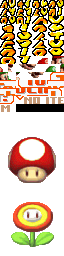
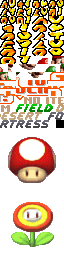
Add level names to bottom screen.
Polish item block code.
Add missing background swapper.

Changed region(s): [[0.0, 0.4062, 1.0, 0.5]]

diff --git a/source/stage_oam_bg.cpp b/source/stage_oam_bg.cpp
@@ -117,6 +117,67 @@ static OAMEntry oam_touchI[] = {
 	}
 };
 
+static OAMEntry oam_LevelName_FIELD[] = {
+	{
+		OBJ_Y(0) | ATTR0_WIDE | ATTR0_COLOR_256,
+		OBJ_X(0) | ATTR1_SIZE_16,
+		(0x6A * 2)
+	},
+	{
+		OBJ_Y(0) | ATTR0_SQUARE | ATTR0_COLOR_256,
+		OBJ_X(32) | ATTR1_SIZE_8,
+		(0x6E * 2) | ATTR2_DATA_END
+	}
+};
+
+static OAMEntry oam_LevelName_FORTRESS[] = {
+	{
+		OBJ_Y(0) | ATTR0_WIDE | ATTR0_COLOR_256,
+		OBJ_X(0) | ATTR1_SIZE_16,
+		(0x76 * 2)
+	},
+	{
+		OBJ_Y(0) | ATTR0_WIDE | ATTR0_COLOR_256,
+		OBJ_X(32) | ATTR1_SIZE_16,
+		(0x7A * 2)
+	},
+	{
+		OBJ_Y(0) | ATTR0_SQUARE | ATTR0_COLOR_256,
+		OBJ_X(64) | ATTR1_SIZE_8,
+		(0x7E * 2) | ATTR2_DATA_END
+	}
+};
+
+static OAMEntry oam_LevelName_DESERT[] = {
+	{
+		OBJ_Y(0) | ATTR0_WIDE | ATTR0_COLOR_256,
+		OBJ_X(0) | ATTR1_SIZE_16,
+		(0x6F * 2)
+	},
+	{
+		OBJ_Y(0) | ATTR0_WIDE | ATTR0_COLOR_256,
+		OBJ_X(32) | ATTR1_SIZE_8,
+		(0x73 * 2)
+	},
+	{
+		OBJ_Y(0) | ATTR0_SQUARE | ATTR0_COLOR_256,
+		OBJ_X(48) | ATTR1_SIZE_8,
+		(0x75 * 2) | ATTR2_DATA_END
+	}
+};
+
+static OAMEntry* oam_LevelNames[] = {
+	oam_LevelName_FIELD,
+	oam_LevelName_FORTRESS,
+	oam_LevelName_DESERT
+};
+
+static void MyDrawBottomScreenLevelName(int* stageScene)
+{
+	int levelID = *(int*)0x02085A14;
+	OAM_DrawHUDSubFromLoadedBNCL(11 + levelID, oam_LevelNames[levelID], 0, 0, 0, 0, 0, 0, 0, 0, 0);
+}
+
 static void MyDrawBottomScreenPowerups(int* stageScene, int playerNo)
 {
 	for (int i = 0; i < 3; i++)
@@ -344,6 +405,7 @@ NAKED void repl_020BE60C_ov_00() { asm("MOVNE R8, #0\nBX LR"); } //Luigi head OA
 //Sub OAM Draw
 void nsub_020BFE5C_ov_00(int* stageScene, int playerNo)
 {
+	MyDrawBottomScreenLevelName(stageScene);
 	MyDrawBottomScreenPowerups(stageScene, playerNo);
 	MyDrawBottomScreenCounters(playerNo);
 	MvsLDrawBottomScreenProgressPathIcons(

diff --git a/source/actors/ItemBlock.cpp b/source/actors/ItemBlock.cpp
@@ -26,7 +26,6 @@ void ItemBlock_SetColor(ItemBlock* block, int color, bool setup = false)
 	{
 		block->color = color;
 		void* model_file = nFS_GetPtrToCachedFile(ModelFileID[block->color]);
-		model3d_ctor(&block->model);
 		model3d_setup(&block->model, model_file, 0);
 
 		if (ResetRotationBug && !setup)
@@ -162,10 +161,9 @@ void ItemBlock_HitExecuteState(ItemBlock* block)
 				ItemBlock_HitBehavior(block, true);
 			}
 		}
-		solidCollisions_setPos(&block->sollid_collision);
+		solidCollisions_setPos(&block->solid_collision);
 
 		block->hit_timer++;
-		return;
 	}
 	else
 	{
@@ -276,10 +274,11 @@ extern "C"
 
 		block->start_pos = block->actor.position;
 
+		model3d_ctor(&block->model);
 		ItemBlock_SetColor(block, block->color, true);
 
-		solidCollisions_init(&block->sollid_collision, block, &ItemBlock_solidCollisionInput, 0, 0, &block->actor.scale);
-		solidCollisions_register(&block->sollid_collision);
+		solidCollisions_init(&block->solid_collision, block, &ItemBlock_solidCollisionInput, 0, 0, &block->actor.scale);
+		solidCollisions_register(&block->solid_collision);
 
 		block->being_hit = false;
 		block->rot_timer = 0;
@@ -290,10 +289,7 @@ extern "C"
 
 	int ItemBlock_OnExecute(ItemBlock* block)
 	{
-		if (!block->info.executeThisState)
-		{
-			block->exec_func(block);
-		}
+		block->exec_func(block);
 		enemyActor_deleteIfOutOfRange(block, 0);
 		return 1;
 	}
@@ -306,7 +302,7 @@ extern "C"
 
 	int ItemBlock_OnDelete(ItemBlock* block)
 	{
-		solidCollisions_unregister(&block->sollid_collision);
+		solidCollisions_unregister(&block->solid_collision);
 		return 1;
 	}
 }

diff --git a/source/actors/ItemBlock.h b/source/actors/ItemBlock.h
@@ -47,7 +47,7 @@ struct ItemBlock
 	// 3F4 -- ItemBlock only
 	Model3d model;
 
-	SolidCollision sollid_collision;
+	SolidCollision solid_collision;
 
 	void (*exec_func)(ItemBlock*);
 	s8 exec_step;
